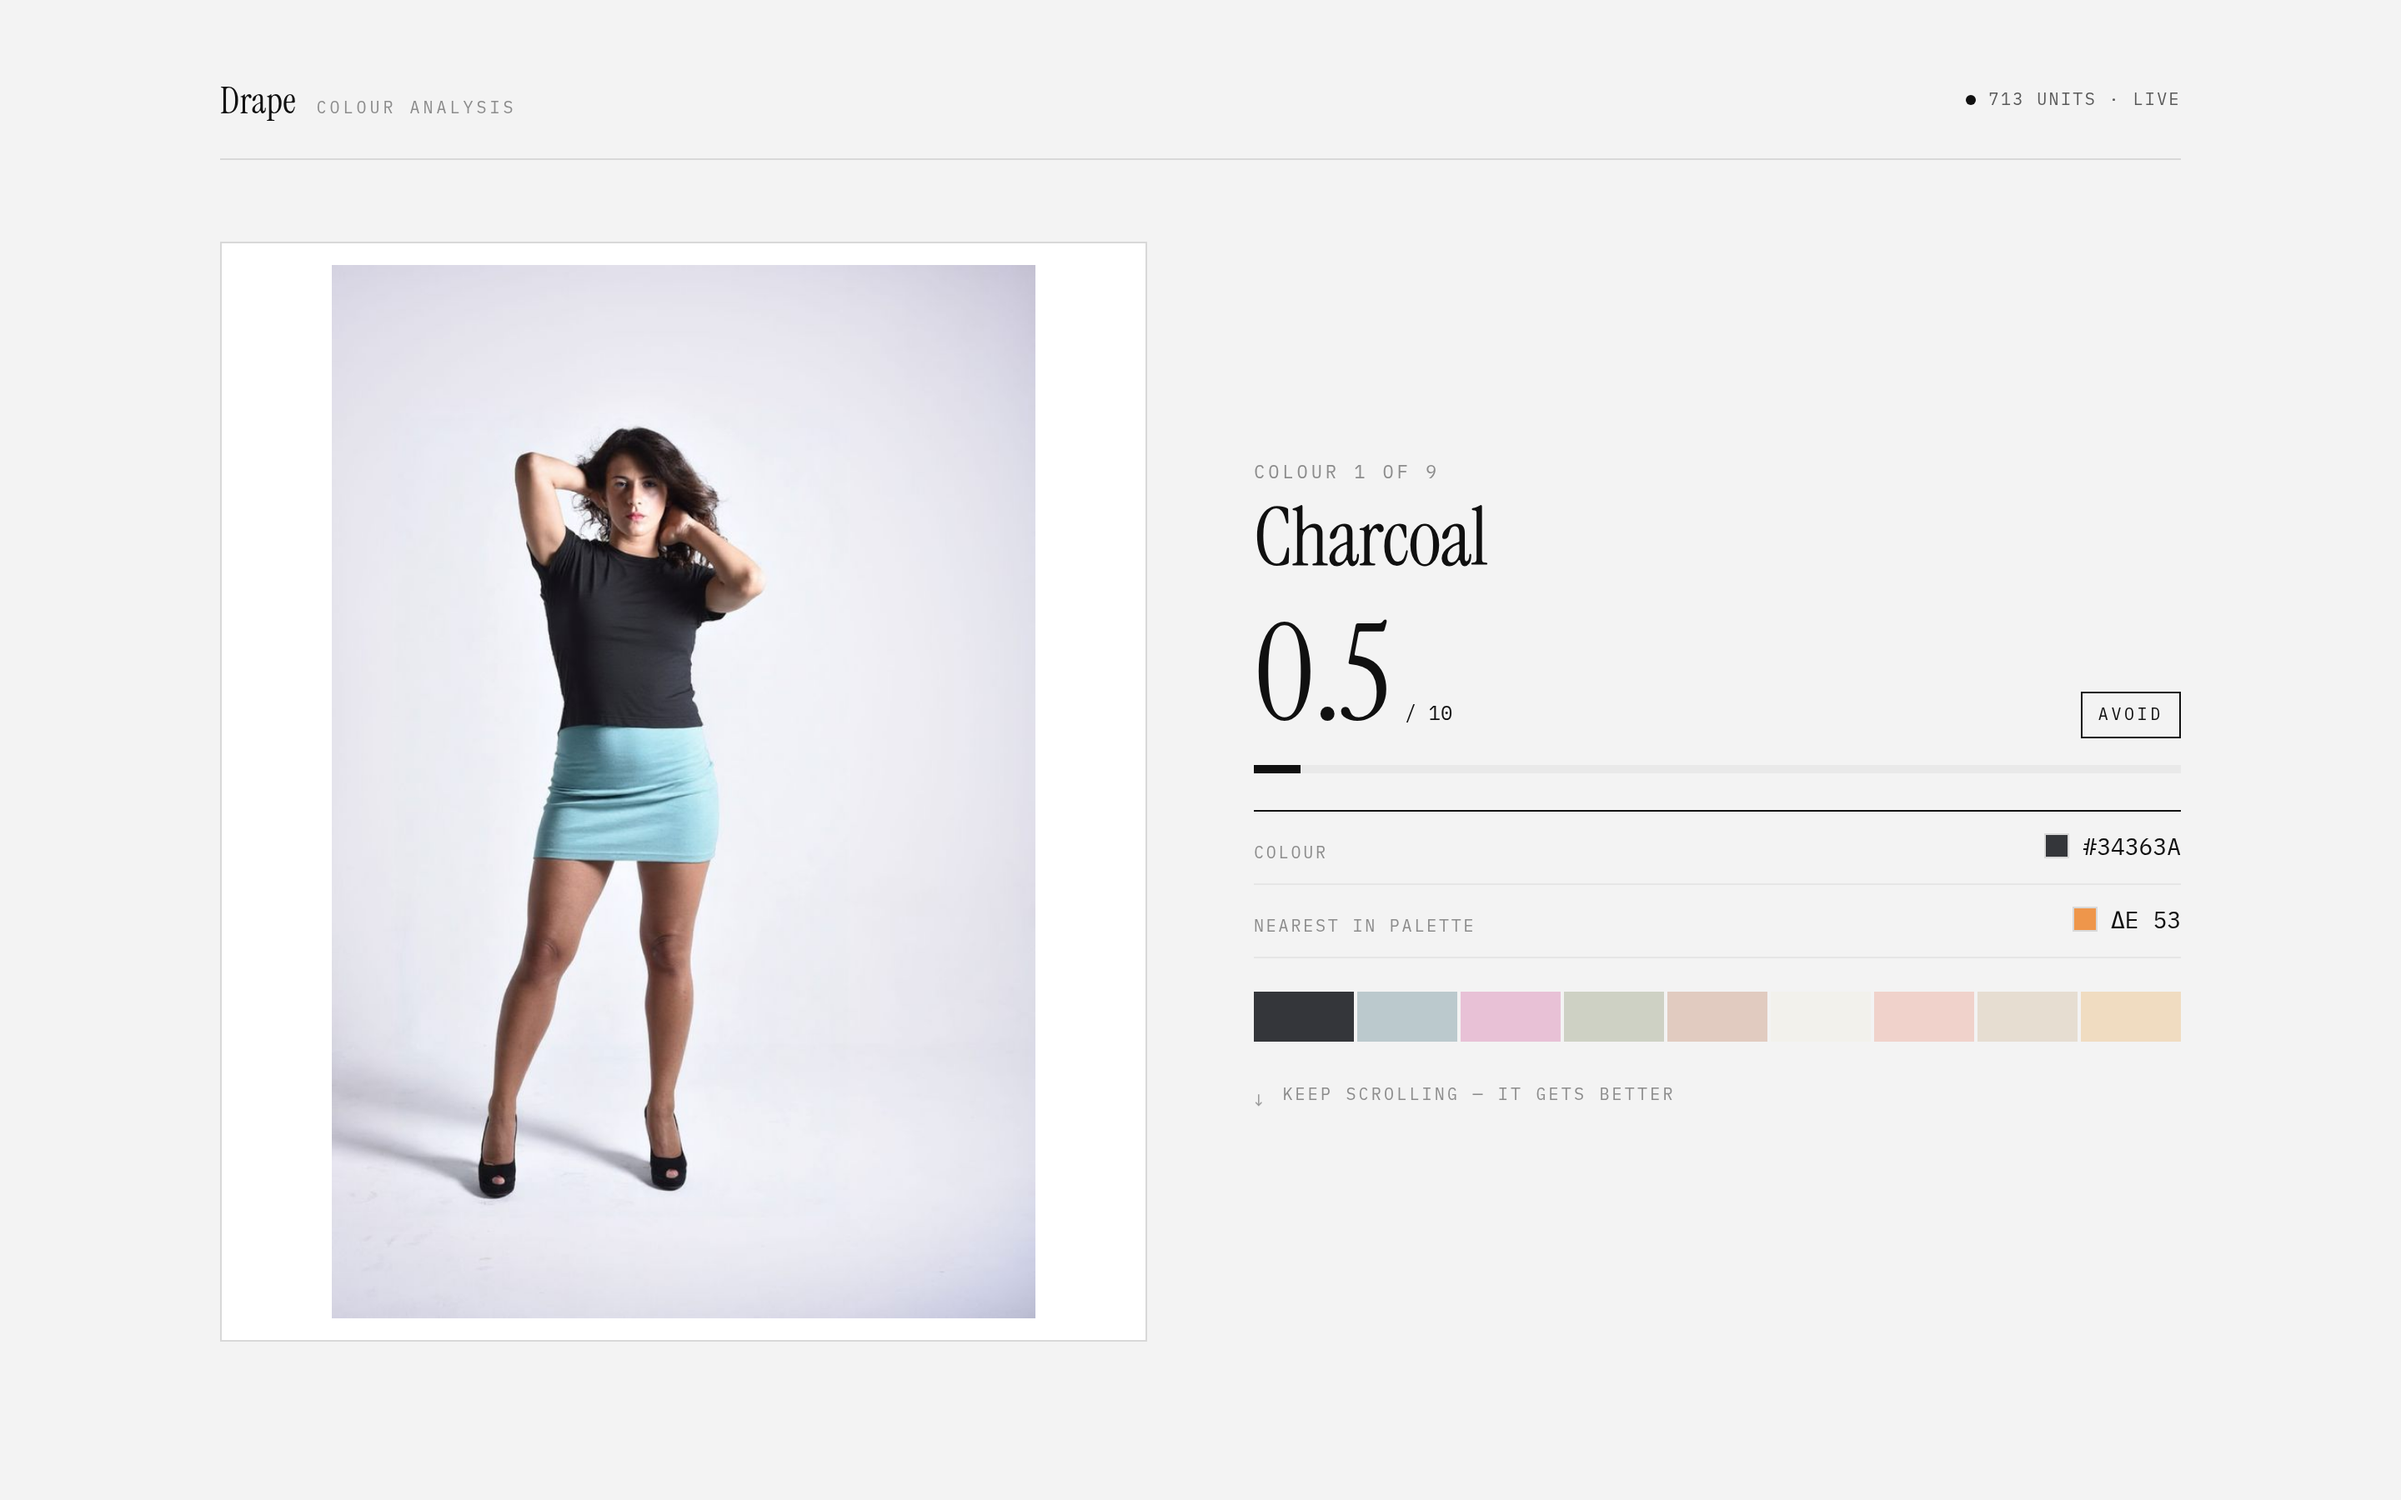
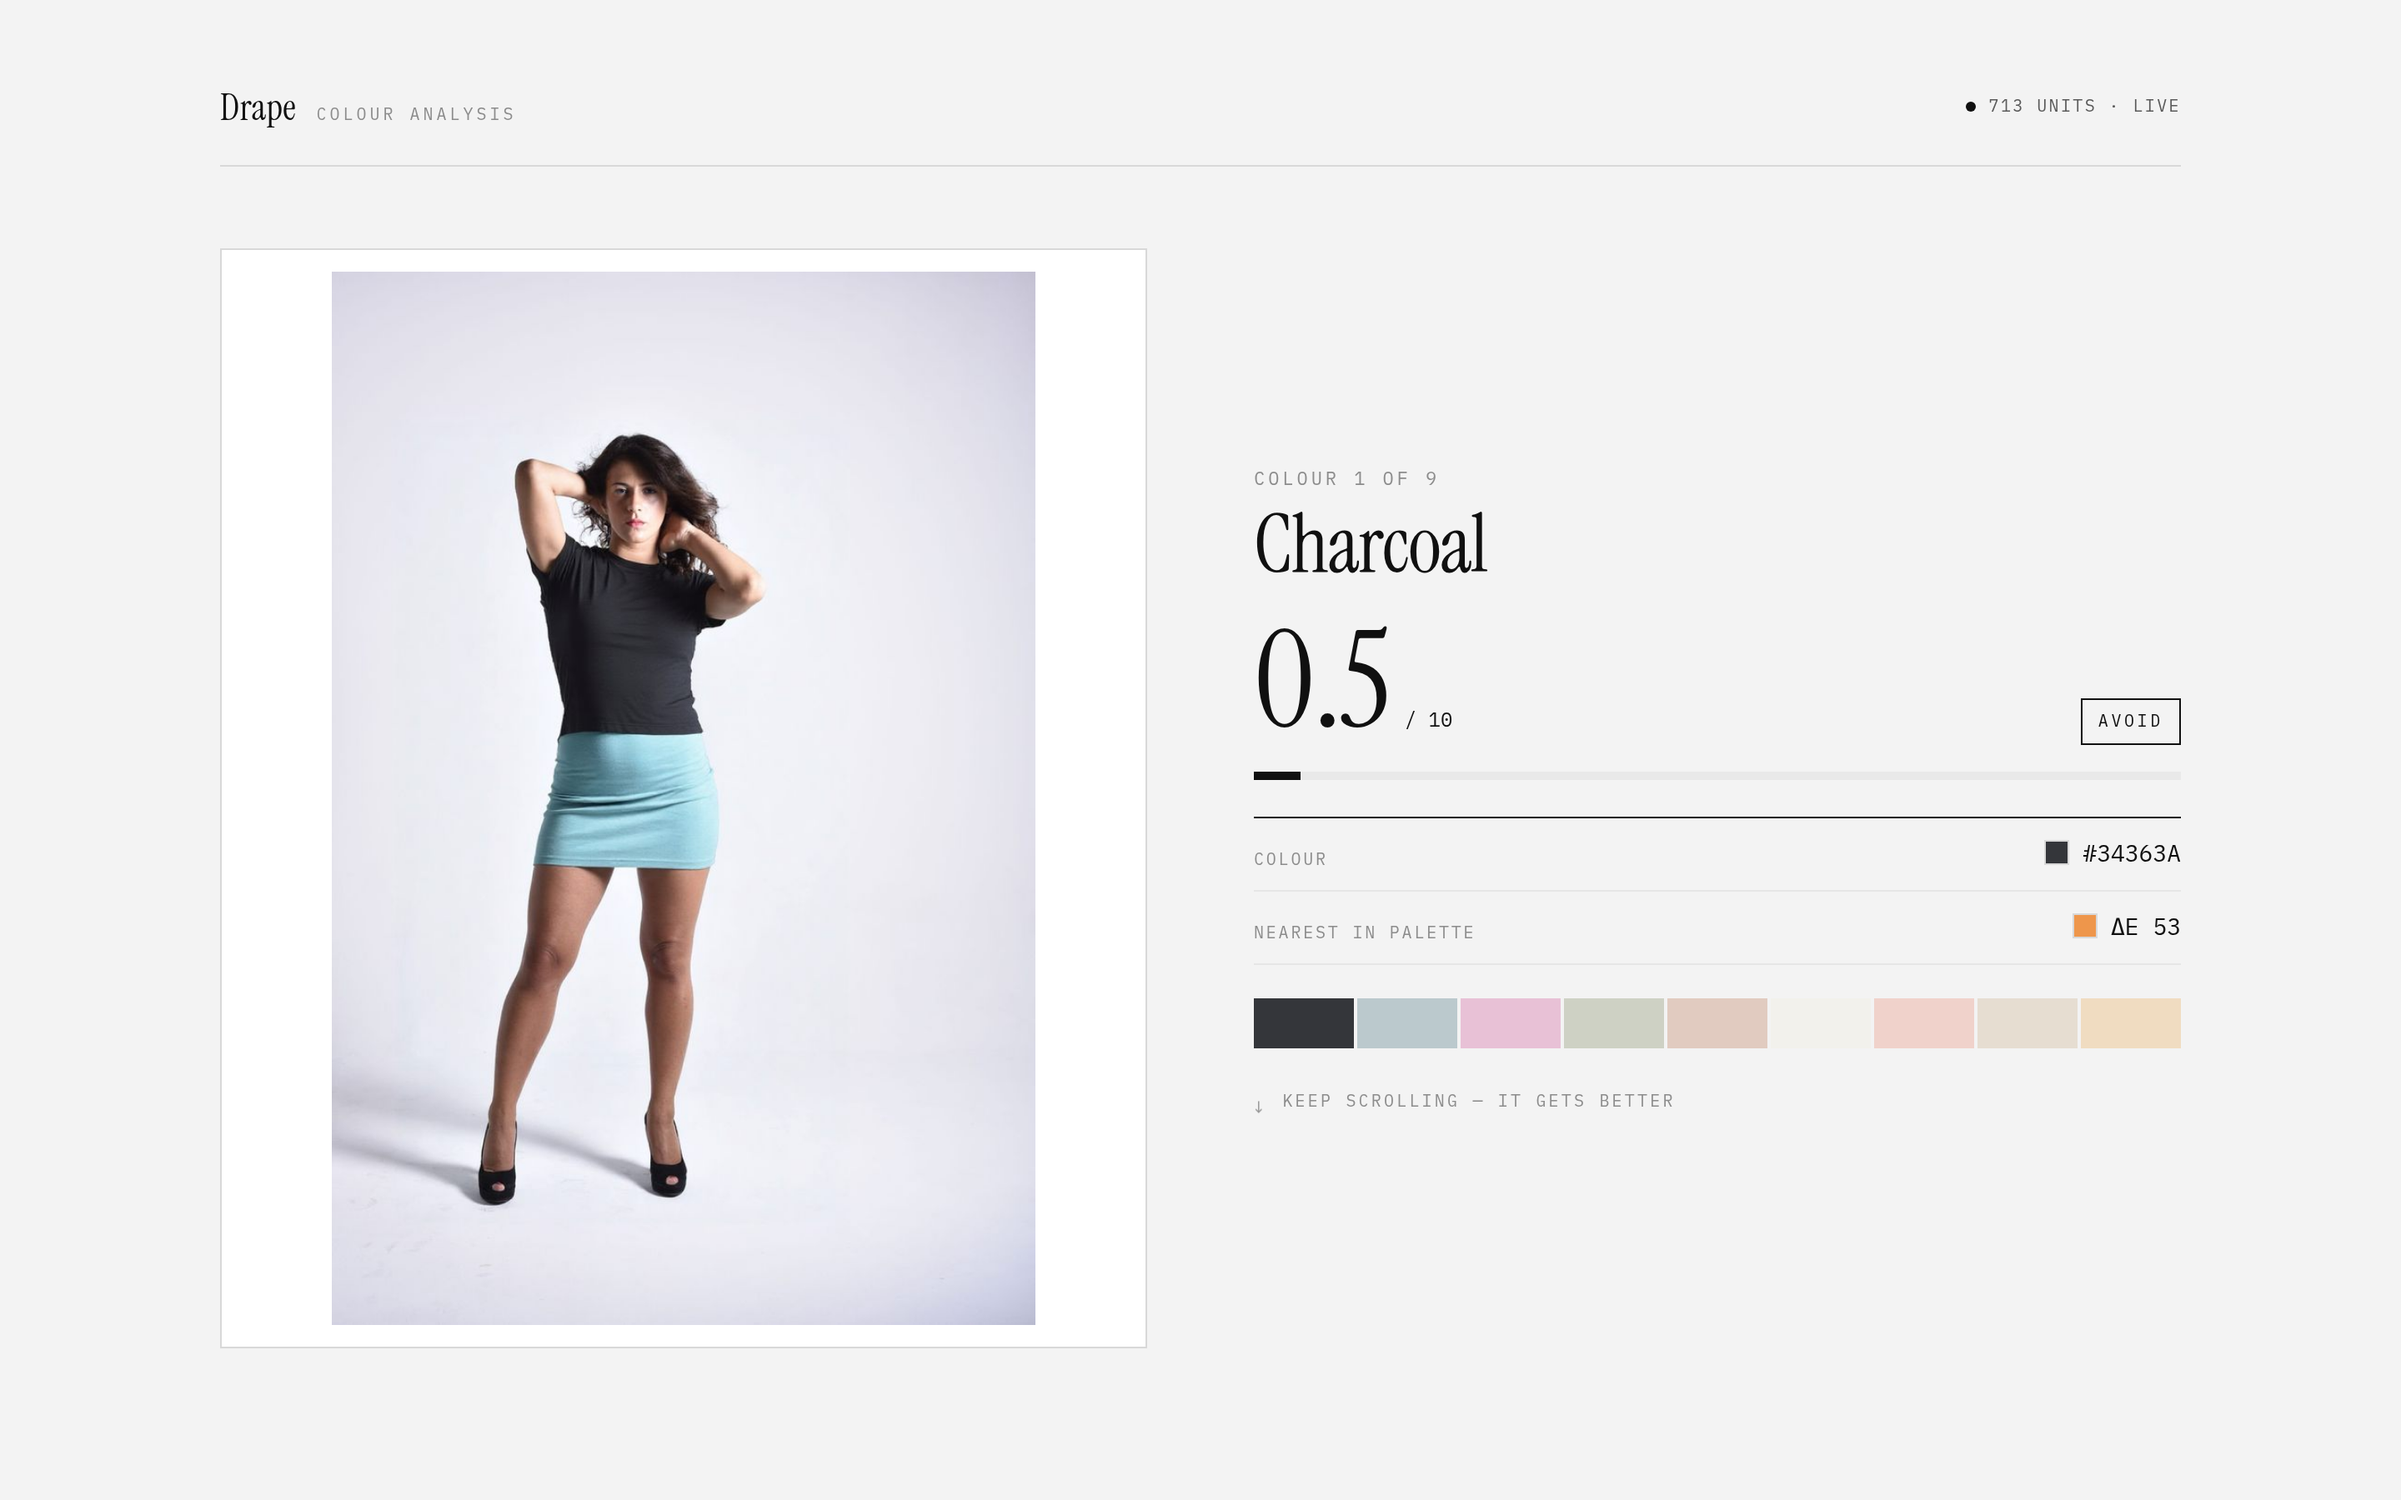
Make the best colour reachable at the end of the scrub
A linear scroll-to-frame mapping put the final frame at exactly p == 1.0, which
sub-pixel rounding and elastic scrolling never quite reach - so the sitter's
best colour could not be seen, and the hint still read "keep scrolling" at the
bottom of the stage. Reaching the last frame at 90% of travel fixes it and lets
that frame hold while the reader scrolls out.

Verified on both sitters: sitter 1 ends on Marigold 8.3, sitter 2 on Rust 7.4.

Claude-Session: https://claude.ai/code/session_01Si7yTSwBXBHZsdDtjCKq37

diff --git a/app/page.tsx b/app/page.tsx
@@ -632,7 +632,13 @@ function DrapingScrub({
         if (!el) return;
         const travel = el.offsetHeight - window.innerHeight;
         if (travel <= 0) return;
-        const p = Math.min(1, Math.max(0, -el.getBoundingClientRect().top / travel));
+        const raw = Math.min(1, Math.max(0, -el.getBoundingClientRect().top / travel));
+        // Reach the final frame at 90% of travel, not at exactly 100%. A linear
+        // mapping makes the best colour exist only at p === 1, which sub-pixel
+        // rounding and elastic scrolling never quite deliver - so her best
+        // colour was unreachable. Landing early also lets it hold while you
+        // scroll out, which is the note the section should end on.
+        const p = Math.min(1, raw / 0.9);
         setIndex(Math.min(frames.length - 1, Math.floor(p * frames.length * 0.999)));
       });
     };
